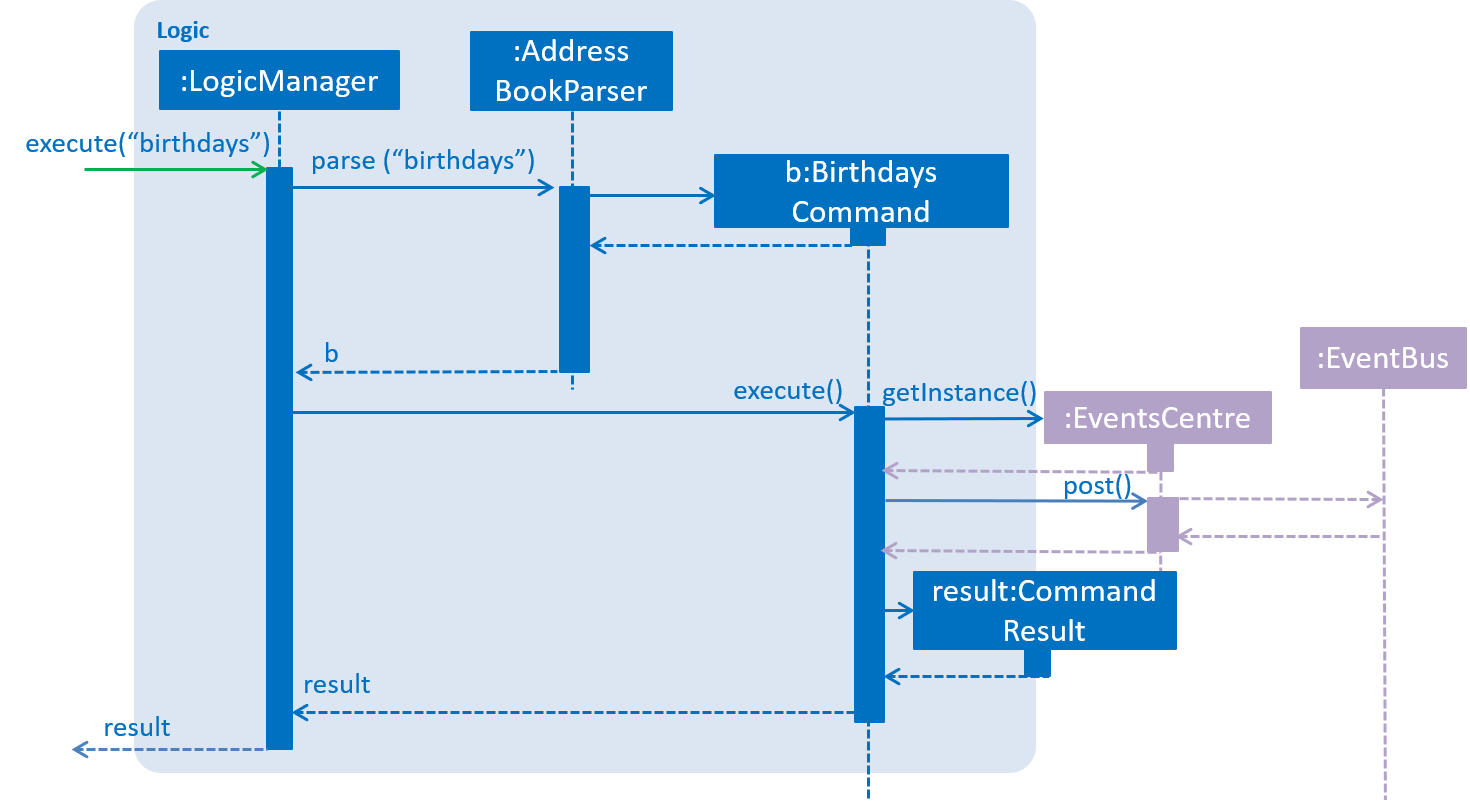
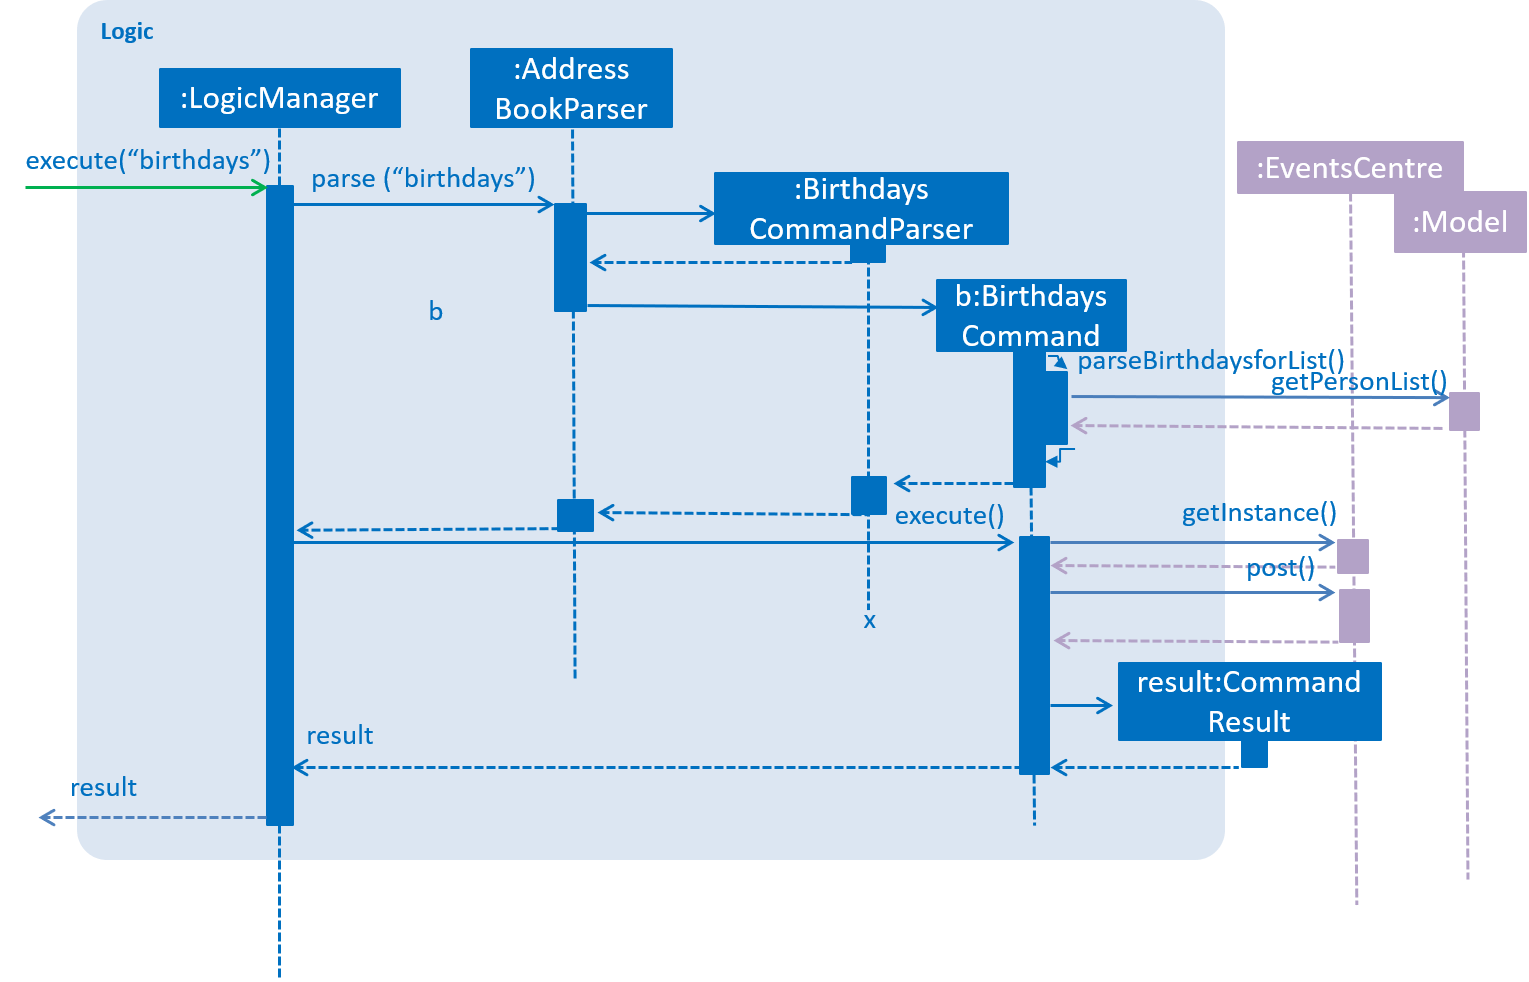
Rebuild pages at e057ae5ea0522ae4e04d122d44adaa335668bba9

diff --git a/DeveloperGuide.html b/DeveloperGuide.html
@@ -1231,7 +1231,7 @@ However, this is still secure as even if a malicious user were to somehow get a 
 <div class="ulist">
 <ul>
 <li>
-<p><strong>Alternative 1 (current choice)</strong>: Let UI component handle the parsing of UniquePersonList obtained from Event</p>
+<p><strong>Alternative 1</strong>: Let UI component handle the parsing of UniquePersonList obtained from Event</p>
 <div class="ulist">
 <ul>
 <li>
@@ -1244,14 +1244,14 @@ However, this is still secure as even if a malicious user were to somehow get a 
 </div>
 </li>
 <li>
-<p><strong>Alternative 2 (current choice)</strong>: Let Parser class handle the parsing of UniquePersonList obtained from Event</p>
+<p><strong>Alternative 2 (current choice)</strong>: Let Birthdays do the parsing of UniquePersonList obtained from Model</p>
 <div class="ulist">
 <ul>
 <li>
 <p>Pros: More modularity.</p>
 </li>
 <li>
-<p>Cons: Not apparent in usage by User. Functionality remains the same but coupling between UI and Parser increases.</p>
+<p>Cons: Not apparent in usage by User. Functionality remains the same but Birthdays command becomes more cluttered.</p>
 </li>
 </ul>
 </div>
@@ -1264,27 +1264,27 @@ However, this is still secure as even if a malicious user were to somehow get a 
 <div class="ulist">
 <ul>
 <li>
-<p><strong>Alternative 1 (current choice)</strong>: Manual command "birthdays"</p>
+<p><strong>Alternative 1</strong>: Manual command "birthdays" or "birthdays today"</p>
 <div class="ulist">
 <ul>
 <li>
-<p>Pros: Easy to implement seperately as a command.</p>
+<p>Pros: User can control when to view the birthdays.</p>
 </li>
 <li>
-<p>Cons: Not very user-friendly.</p>
+<p>Cons: Not very user-friendly. Additional parameter cannot be shortened.</p>
 </li>
 </ul>
 </div>
 </li>
 <li>
-<p><strong> Alternative 2:</strong> Notification at the start of app if a birthday is occurring today</p>
+<p><strong> Alternative 2 (current choice)</strong>: Notification at the start of app if a birthday is occurring today</p>
 <div class="ulist">
 <ul>
 <li>
-<p>Pros: Additional useful functionality for User.</p>
+<p>Pros: User can be reminded immediately and need not type the command.</p>
 </li>
 <li>
-<p>Cons: Currently, StardyTogether does not have settings to switch on/off the feature if implemented. May clash with encryption.</p>
+<p>Cons: Currently, StardyTogether does not have settings to switch on/off the feature. User may find it irritating.</p>
 </li>
 </ul>
 </div>
@@ -1297,14 +1297,14 @@ However, this is still secure as even if a malicious user were to somehow get a 
 <div class="ulist">
 <ul>
 <li>
-<p><strong> Alternative 1 (Current choice)</strong>: Fixed format as DDMMYY</p>
+<p><strong> Alternative 1 (Current choice)</strong>: Fixed format as DDMMYYYY</p>
 <div class="ulist">
 <ul>
 <li>
 <p>Pros: Less room for errors.</p>
 </li>
 <li>
-<p>Cons: User may not like the DDMMYY format.</p>
+<p>Cons: User may not like the DDMMYYYY format.</p>
 </li>
 </ul>
 </div>
@@ -1689,8 +1689,8 @@ b. Require developers to download those libraries manually (this creates extra w
 </tr>
 <tr>
 <td class="tableblock halign-left valign-top"><p class="tableblock">Wayne Neo</p></td>
-<td class="tableblock halign-left valign-top"><p class="tableblock">Designing UI for Timetable. UI will display the timetable of each person and also the union of timetables to find common timeslots</p></td>
-<td class="tableblock halign-left valign-top"><p class="tableblock">Adding of Birthday class into the <code>Person</code> class. With an additional command, it allows users to generate a list of birthdays to celebrate with their friends.</p></td>
+<td class="tableblock halign-left valign-top"><p class="tableblock">In charge of Model and Logic for Timetable. User can enter their timetable and compare their timetables to find common slots for easy 'stardying' together</p></td>
+<td class="tableblock halign-left valign-top"><p class="tableblock">Birthdays system helps User to keep track of their friend&#8217;s birthdays and remind them promptly if its their birthday today</p></td>
 </tr>
 </tbody>
 </table>
@@ -1735,6 +1735,18 @@ b. Require developers to download those libraries manually (this creates extra w
 <td class="tableblock halign-left valign-top"><p class="tableblock">student with friends</p></td>
 <td class="tableblock halign-left valign-top"><p class="tableblock">find my friend’s timetables</p></td>
 <td class="tableblock halign-left valign-top"><p class="tableblock">find common studying time with them</p></td>
+</tr>
+<tr>
+<td class="tableblock halign-left valign-top"><p class="tableblock"><code>* * *</code></p></td>
+<td class="tableblock halign-left valign-top"><p class="tableblock">student with friends</p></td>
+<td class="tableblock halign-left valign-top"><p class="tableblock">list my friends' birthdays</p></td>
+<td class="tableblock halign-left valign-top"><p class="tableblock">plan ahead in time for their birthdays</p></td>
+</tr>
+<tr>
+<td class="tableblock halign-left valign-top"><p class="tableblock"><code>* * *</code></p></td>
+<td class="tableblock halign-left valign-top"><p class="tableblock">student with friends</p></td>
+<td class="tableblock halign-left valign-top"><p class="tableblock">be notified of birthdays today</p></td>
+<td class="tableblock halign-left valign-top"><p class="tableblock">wish them happy birthday</p></td>
 </tr>
 <tr>
 <td class="tableblock halign-left valign-top"><p class="tableblock"><code>* * *</code></p></td>
@@ -2194,7 +2206,7 @@ Expected: Application opens with an address book with dummy data.</p>
 </div>
 <div id="footer">
 <div id="footer-text">
-Last updated 2018-03-27 18:06:43 UTC
+Last updated 2018-03-27 18:40:10 UTC
 </div>
 </div>
 </body>

diff --git a/UserGuide.html b/UserGuide.html
@@ -168,9 +168,6 @@ e.g. typing <strong><code>help</code></strong> and pressing <kbd>Enter</kbd> wil
 <li>
 <p>Parameters can be in any order e.g. if the command specifies <code>n/NAME p/PHONE_NUMBER</code>, <code>p/PHONE_NUMBER n/NAME</code> is also acceptable.</p>
 </li>
-<li>
-<p>Birthday must be in DDMMYY format</p>
-</li>
 </ul>
 </div>
 </div>
@@ -410,7 +407,37 @@ Format: <code>nopassword</code></p>
 <h3 id="viewing-a-collated-birthday-list-code-birthdays-code-since-v1-3"><a class="link" href="#viewing-a-collated-birthday-list-code-birthdays-code-since-v1-3">3.10. Viewing a collated birthday list: <code>birthdays</code> (since v1.3)</a></h3>
 <div class="paragraph">
 <p>Displays a list that contains all the birthdays of all contacts ordered by date<br>
-Format: <code>birthdays</code></p>
+Or display a notification of the birthdays today<br>
+Format: <code>birthdays [ADDITIONAL_PARAMETER]</code></p>
+</div>
+<div class="sidebarblock">
+<div class="content">
+<div class="ulist">
+<ul>
+<li>
+<p>There is an optional field of [ADDITIONAL_PARAMETER]</p>
+</li>
+<li>
+<p>You can input <code>todays</code> in that field to show a notification of the birthdays today instead</p>
+</li>
+</ul>
+</div>
+</div>
+</div>
+<div class="paragraph">
+<p>Examples:</p>
+</div>
+<div class="ulist">
+<ul>
+<li>
+<p><code>birthdays</code><br>
+Displays a list of all birthdays</p>
+</li>
+<li>
+<p><code>birthdays today</code><br>
+Displays a window with the birthdays today</p>
+</li>
+</ul>
 </div>
 </div>
 <div class="sect2">
@@ -893,7 +920,7 @@ e.g. <code>vacant COM1</code></p>
 </div>
 <div id="footer">
 <div id="footer-text">
-Last updated 2018-03-27 18:06:43 UTC
+Last updated 2018-03-27 18:40:10 UTC
 </div>
 </div>
 </body>

diff --git a/LearningOutcomes.html b/LearningOutcomes.html
@@ -561,7 +561,7 @@ class gives some examples of how to use <em>Equivalence Partitions</em>, <em>Bou
 </div>
 <div id="footer">
 <div id="footer-text">
-Last updated 2018-03-27 18:06:43 UTC
+Last updated 2018-03-27 18:40:10 UTC
 </div>
 </div>
 </body>

diff --git a/UsingCoveralls.html b/UsingCoveralls.html
@@ -115,7 +115,7 @@ If you have not set up Travis CI, see <a href="UsingTravis.html">UsingTravis.ado
 </div>
 <div id="footer">
 <div id="footer-text">
-Last updated 2018-03-27 18:06:43 UTC
+Last updated 2018-03-27 18:40:10 UTC
 </div>
 </div>
 </body>

diff --git a/UsingGradle.html b/UsingGradle.html
@@ -261,7 +261,7 @@ See <code>build.gradle</code> &#8594; <code>allprojects</code> &#8594; <code>dep
 </div>
 <div id="footer">
 <div id="footer-text">
-Last updated 2018-03-27 18:06:43 UTC
+Last updated 2018-03-27 18:40:10 UTC
 </div>
 </div>
 </body>

diff --git a/UsingNetlify.html b/UsingNetlify.html
@@ -142,7 +142,7 @@ The publish directory is the directory in which the built HTML documentation res
 </div>
 <div id="footer">
 <div id="footer-text">
-Last updated 2018-03-27 18:06:43 UTC
+Last updated 2018-03-27 18:40:10 UTC
 </div>
 </div>
 </body>

diff --git a/team/johndoe.html b/team/johndoe.html
@@ -695,7 +695,7 @@ This is because keys generated by <code>java.crypto.KeyGenerator</code> have the
 </div>
 <div id="footer">
 <div id="footer-text">
-Last updated 2018-03-27 18:06:43 UTC
+Last updated 2018-03-27 18:40:10 UTC
 </div>
 </div>
 </body>

diff --git a/UsingTravis.html b/UsingTravis.html
@@ -299,7 +299,7 @@ Suggested change: Remove the codacy badge from <code>README</code>.</p>
 </div>
 <div id="footer">
 <div id="footer-text">
-Last updated 2018-03-27 18:06:43 UTC
+Last updated 2018-03-27 18:40:10 UTC
 </div>
 </div>
 </body>

diff --git a/UsingCheckstyle.html b/UsingCheckstyle.html
@@ -103,7 +103,7 @@ Restart the IDE to complete the installation.</p>
 </div>
 <div id="footer">
 <div id="footer-text">
-Last updated 2018-03-27 18:06:43 UTC
+Last updated 2018-03-27 18:40:10 UTC
 </div>
 </div>
 </body>

diff --git a/TestDocument.html b/TestDocument.html
@@ -178,7 +178,7 @@ This should be on a new line.</p>
 </div>
 <div id="footer">
 <div id="footer-text">
-Last updated 2018-03-27 18:06:43 UTC
+Last updated 2018-03-27 18:40:10 UTC
 </div>
 </div>
 </body>

diff --git a/AboutUs.html b/AboutUs.html
@@ -110,7 +110,7 @@ Responsibilities: UI</p>
 </div>
 <div id="footer">
 <div id="footer-text">
-Last updated 2018-03-27 18:06:43 UTC
+Last updated 2018-03-27 18:40:10 UTC
 </div>
 </div>
 </body>

diff --git a/UsingAppVeyor.html b/UsingAppVeyor.html
@@ -174,7 +174,7 @@ grant access:</p>
 </div>
 <div id="footer">
 <div id="footer-text">
-Last updated 2018-03-27 18:06:43 UTC
+Last updated 2018-03-27 18:40:10 UTC
 </div>
 </div>
 </body>
